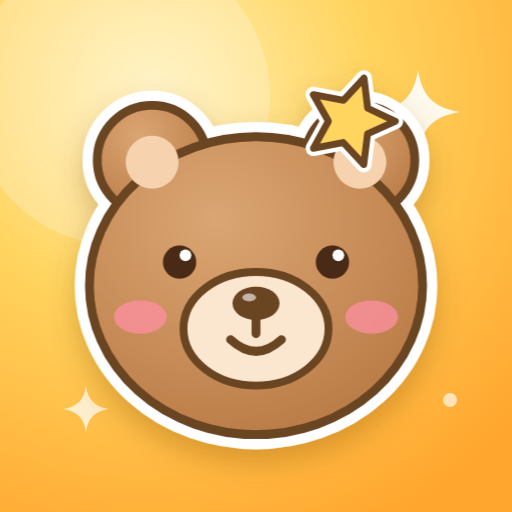
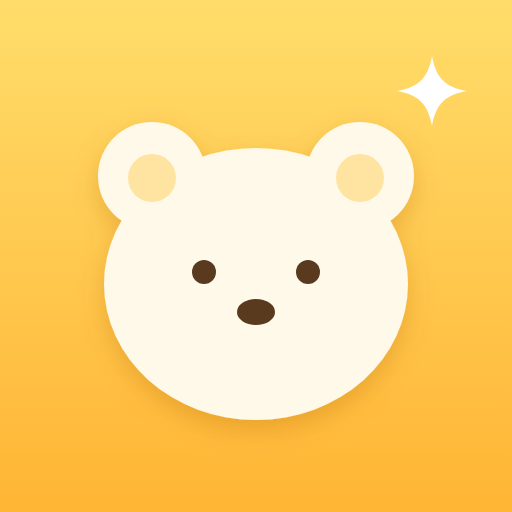
换一个简洁的主屏幕图标，黄色底铺满
Claude-Session: https://claude.ai/code/session_01KPnJ6QoMLDdHDBap6MkjBV

diff --git a/docs/index.html b/docs/index.html
@@ -6,8 +6,8 @@
 <meta name="theme-color" content="#ffd66b"/>
 <meta name="apple-mobile-web-app-capable" content="yes"/>
 <meta name="apple-mobile-web-app-title" content="🐻"/>
-<link rel="apple-touch-icon" href="./apple-touch-icon.png"/>
-<link rel="icon" href="./icon-192.png"/>
+<link rel="apple-touch-icon" href="./apple-touch-icon.png?v=3"/>
+<link rel="icon" href="./icon-192.png?v=3"/>
 <link rel="manifest" href="./manifest.webmanifest"/>
 <title>🐻</title>
   <script type="module" crossorigin src="./assets/index-l1KPYxkh.js"></script>

diff --git a/index.html b/index.html
@@ -6,8 +6,8 @@
 <meta name="theme-color" content="#ffd66b"/>
 <meta name="apple-mobile-web-app-capable" content="yes"/>
 <meta name="apple-mobile-web-app-title" content="🐻"/>
-<link rel="apple-touch-icon" href="./apple-touch-icon.png"/>
-<link rel="icon" href="./icon-192.png"/>
+<link rel="apple-touch-icon" href="./apple-touch-icon.png?v=3"/>
+<link rel="icon" href="./icon-192.png?v=3"/>
 <link rel="manifest" href="./manifest.webmanifest"/>
 <title>🐻</title>
 </head>
